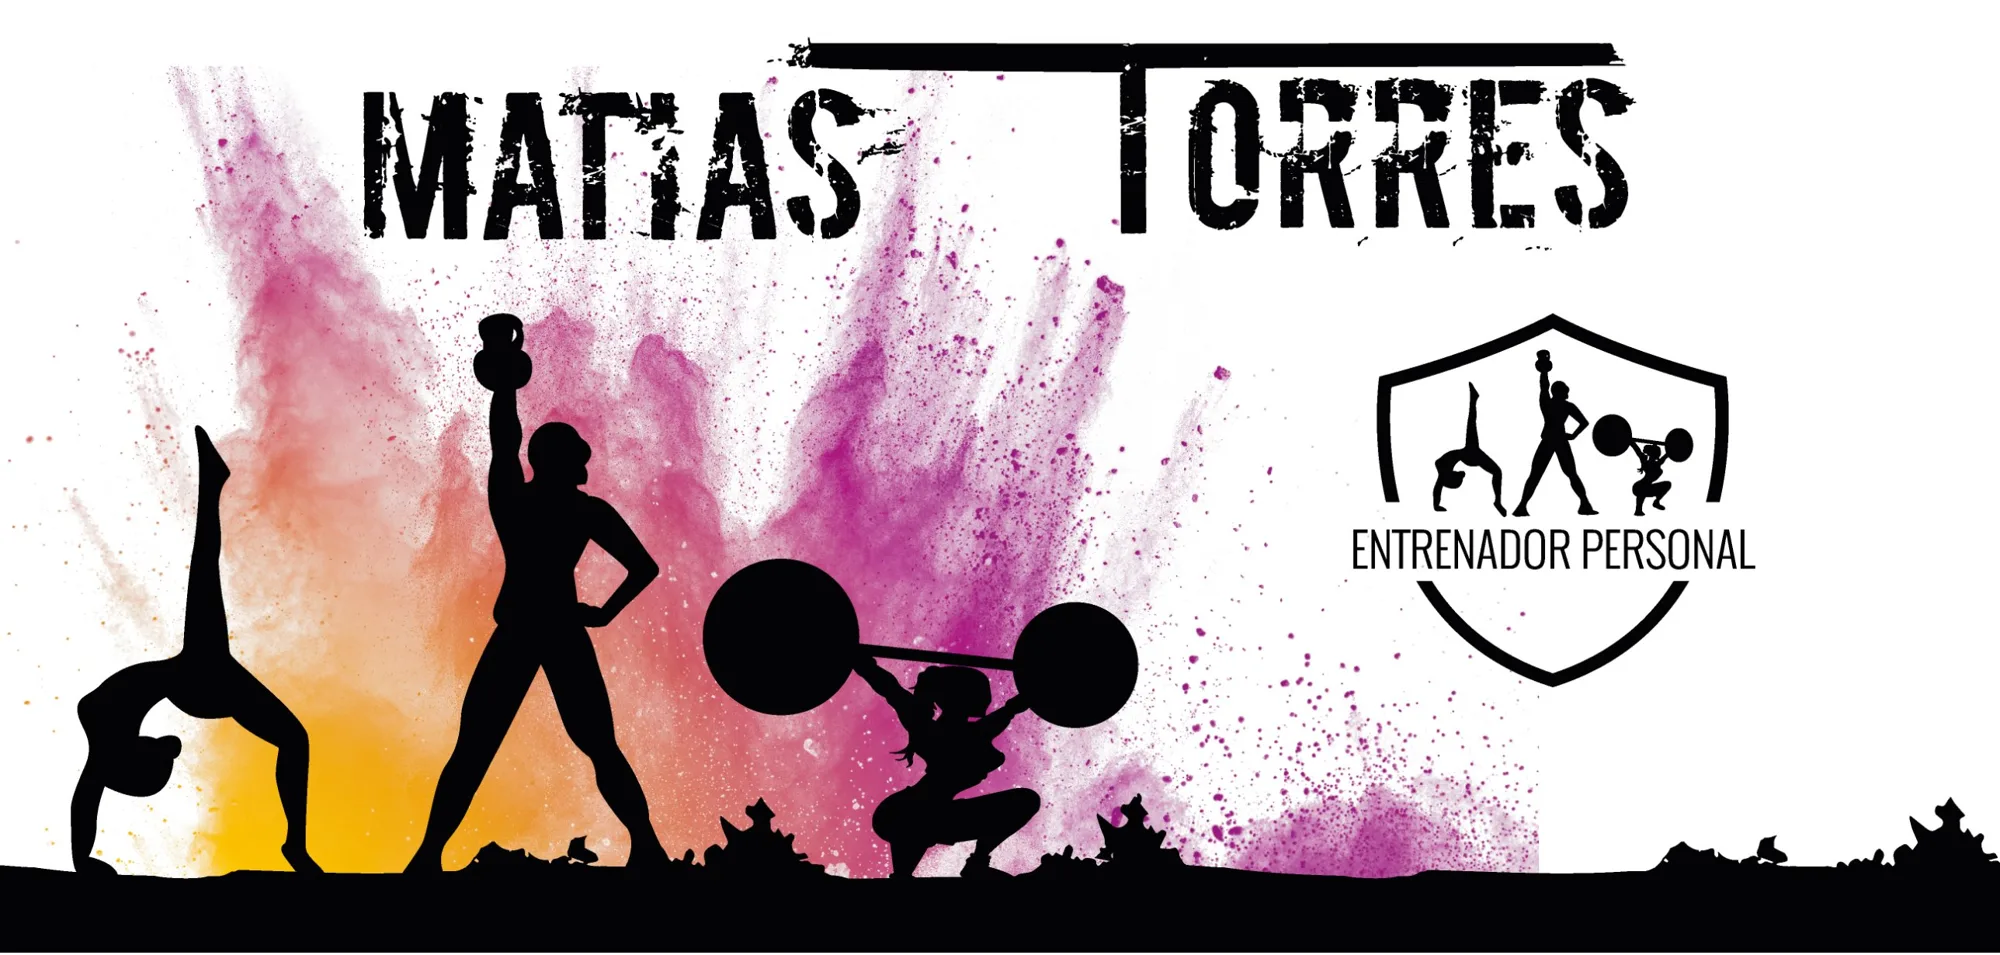
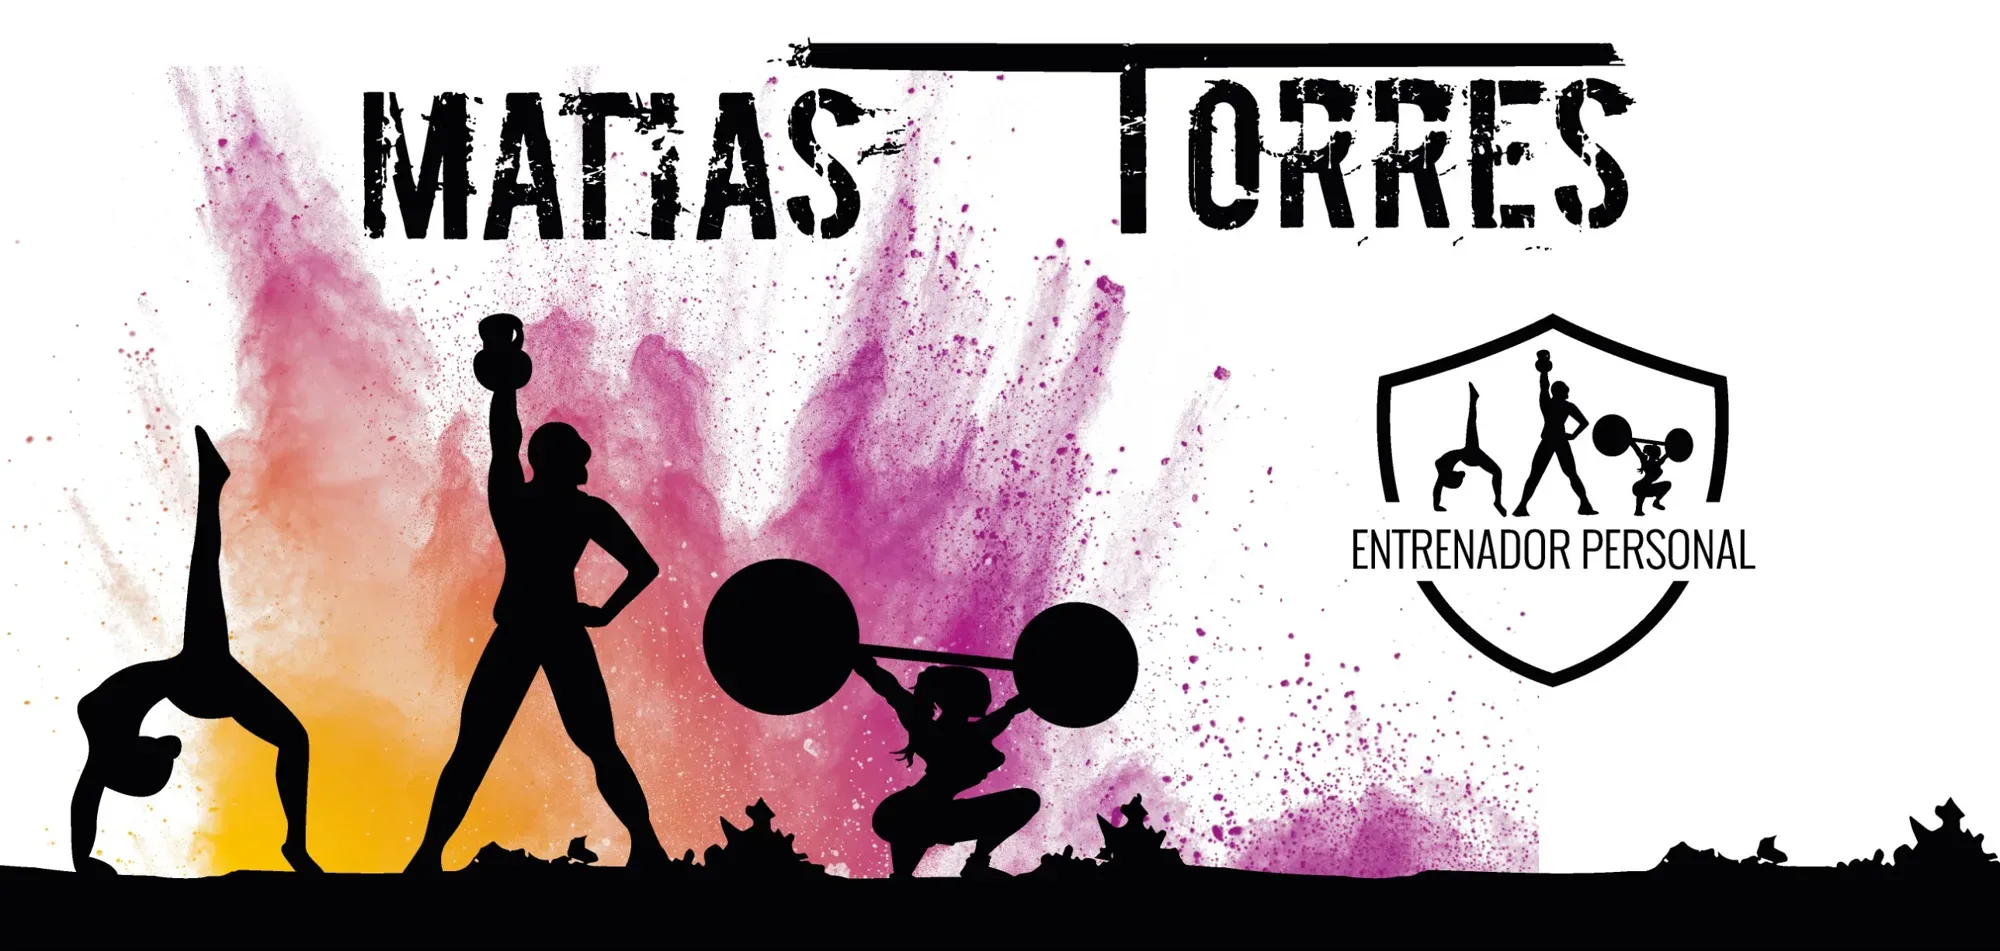
Conoce el espacio: etiqueta SEO, texto cálido, mural a lo ancho y frase 'Te vamos a cuidar como cuidaríamos a los nuestros'
Claude-Session: https://claude.ai/code/session_01NkzjExiwYDXCqzzxEzx9mz

diff --git a/index.html b/index.html
@@ -1043,6 +1043,29 @@
 45%{transform:translateY(-50px) translateX(-16px) scaleX(1.2) rotate(-12deg);opacity:.5}
 75%{transform:translateY(-120px) translateX(14px) scaleX(1.9) rotate(10deg);opacity:.25}
 100%{transform:translateY(-180px) translateX(-6px) scaleX(2.5) rotate(-4deg);opacity:0}}
+
+/* ===== Conoce el espacio (boceto) ===== */
+.ce-eb{display:inline-block;background:var(--yellow);color:#0d0d0d;font:700 clamp(15px,1.6vw,21px)/1.2 'Oswald',sans-serif;letter-spacing:.12em;text-transform:uppercase;padding:.45em .8em;border-radius:4px;margin-bottom:14px}
+.ce-title{margin-top:6px}
+.ce-txt{max-width:920px;margin:14px 0 8px}
+.ce-txt p{font-size:clamp(17px,1.4vw,20px);line-height:1.65;color:#3a3a36;margin:0 0 16px}
+.ce-txt strong{color:#0d0d0d}
+.ce-hint{font-size:14px;color:var(--muted);margin:0 0 18px}
+.ce-mural{margin:0 0 22px;position:relative;border-radius:18px;overflow:hidden;background:#fff;box-shadow:0 24px 60px -30px rgba(0,0,0,.45);cursor:zoom-in}
+.ce-mural img{display:block;width:100%;height:auto;transform:scale(1.03);transition:transform 1.6s cubic-bezier(.2,.7,.2,1)}
+.ce-mural:hover img{transform:scale(1)}
+.ce-mural figcaption{display:flex;flex-wrap:wrap;align-items:baseline;gap:6px 16px;padding:14px 22px;background:var(--black);border-top:6px solid var(--yellow);color:#fff}
+.ce-mural figcaption b{font:600 clamp(17px,1.8vw,22px)/1.1 'Oswald',sans-serif;letter-spacing:.04em;text-transform:uppercase;color:var(--yellow)}
+.ce-mural figcaption span{font-size:15px;color:#d8d8d2}
+/* Versión B: texto a la izquierda, mural a la derecha */
+.ce-split{display:grid;grid-template-columns:minmax(0,1.05fr) minmax(0,1fr);gap:clamp(24px,3.5vw,56px);align-items:center;margin:10px 0 30px}
+.ce-split .ce-txt{margin:0}
+.ce-split .ce-mural{margin:0;transform:rotate(1.2deg);box-shadow:14px 14px 0 var(--yellow),0 24px 60px -30px rgba(0,0,0,.45)}
+.ce-split .ce-mural figcaption span{display:none}
+@media(max-width:900px){.ce-split{grid-template-columns:1fr}.ce-split .ce-mural{transform:none;box-shadow:8px 8px 0 var(--yellow)}}
+
+.ce-mural figcaption.ce-claim{display:flex;justify-content:center;border-top:0;margin-top:-1px;padding:clamp(14px,2vw,24px) 18px clamp(18px,2.4vw,28px);background:#000}
+.ce-mural figcaption.ce-claim span{display:inline;background:var(--yellow);color:#0d0d0d;font:700 clamp(17px,2.2vw,30px)/1.5 'Oswald',sans-serif;letter-spacing:.05em;text-transform:uppercase;text-align:center;padding:.12em .5em;-webkit-box-decoration-break:clone;box-decoration-break:clone}
 </style>
 </head>
 <body>
@@ -1144,9 +1167,19 @@
   </div></section>
 
   <section class="alt" id="centro"><div class="wrap">
-    <div class="eyebrow">El centro</div>
-    <h2 class="title">Conoce el espacio donde entrenas</h2>
-    <p class="lead">Una sala luminosa y privada, con material profesional para rehabilitación y trabajo de fuerza. Pulsa en una foto para verla en grande.</p>
+    <div class="ce-eb">Tu centro de entrenamiento personal en Orihuela</div>
+    <h2 class="title ce-title">Conoce el espacio donde entrenas</h2>
+    <div class="ce-txt">
+      <p><strong>Imagina entrenar donde nadie te mira, nadie te mete prisa y nadie te quita la máquina.</strong> Eso es esta sala.</p>
+      <p>Luminosa, privada y cuidada al detalle. Entras en calcetines o con calzado minimalista y todo está preparado antes de que llegues: material de gama alta para fuerza, trabajo funcional y readaptación de lesiones.</p>
+      <p>Pero lo que de verdad cuenta no es la sala. Es que aquí te llaman por tu nombre, se acuerdan de esa rodilla que te molestaba el martes y te dicen la verdad, aunque no sea lo que quieres oír. Como un buen amigo que, además, sabe muchísimo de entrenamiento.</p>
+      <p>Lo que nos cuentas, se queda aquí. Tú solo vienes a <strong>ponerte fuerte, perder peso o dejar atrás el dolor</strong>.</p>
+    </div>
+    <figure class="ce-mural" data-lb>
+      <img src="fotos/fondo-explosion.webp?v=2" width="2000" height="951" alt="Mural de 9 por 4 metros a la entrada del centro: Matías Torres, entrenador personal, con tres siluetas entrenando sobre una explosión de color" loading="lazy" decoding="async">
+      <figcaption class="ce-claim"><span>Te vamos a cuidar como cuidaríamos a los nuestros.</span></figcaption>
+    </figure>
+    <p class="ce-hint">Pulsa en una foto para verla en grande.</p>
     <div class="gal">
       <figure class="g1" data-lb><img data-img="g20" width="1100" height="480" alt="Rack con poleas y bancos de entrenamiento entre plantas" loading="lazy"><figcaption>Zona de fuerza y poleas</figcaption></figure>
       <figure class="g4" data-lb><img data-img="airbike" width="1200" height="1600" alt="Bicicleta de aire, cajón pliométrico y la pared de madera con el nombre Matías Torres" loading="lazy"><figcaption>Zona funcional</figcaption></figure>
